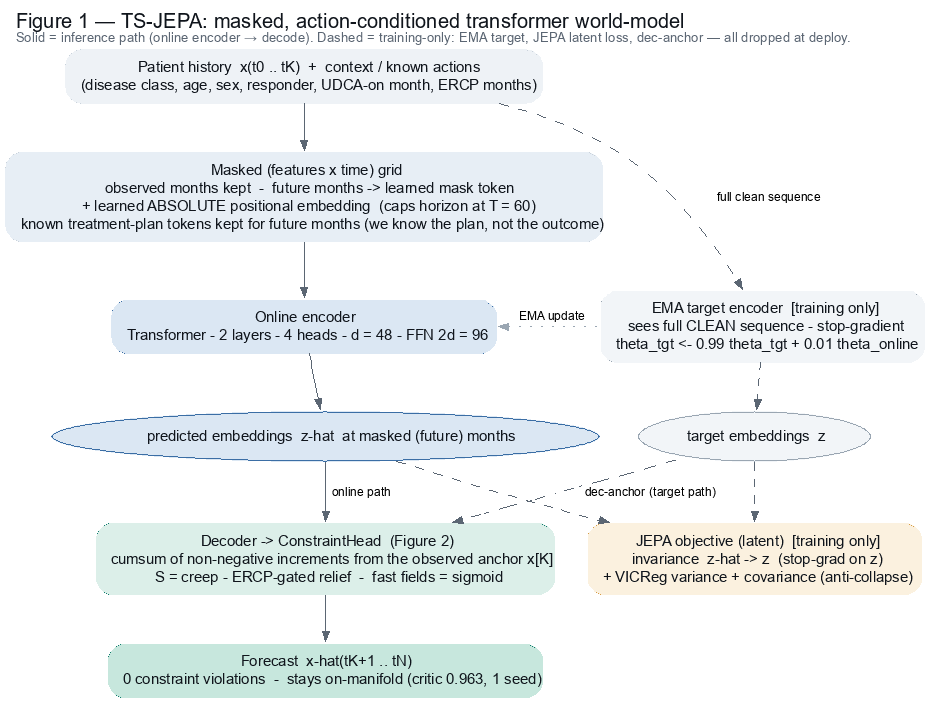
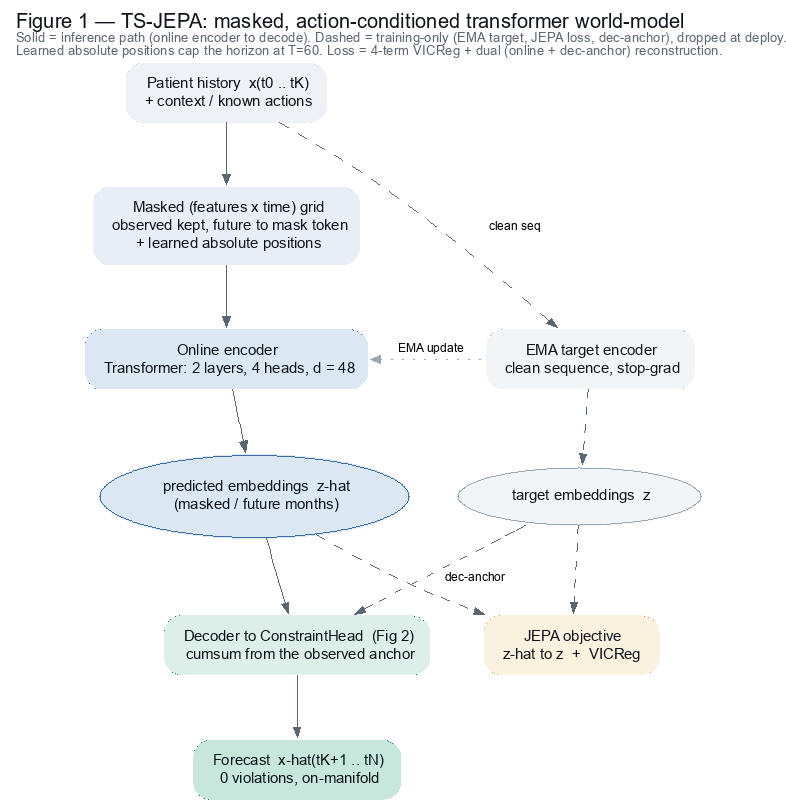
memo.tex: add author + drop em dashes; declutter Figure 1
- memo.tex: add "Pratik Adhikari" under the title; replace every em dash with
  contextual punctuation (commas/colons/parentheses/periods), keeping numeric en-dash
  ranges (12-15, 0.6-0.8, D23-D27). No content change.
- figures/arch_tsjepa: de-congest -- trim node labels (detail moved to the caption),
  more spacing, and pull the training-only apparatus (EMA target, target embeddings,
  JEPA objective) into a clean right-hand column so it no longer tangles the inference
  spine. Re-rendered with the gd renderer.

diff --git a/memo.tex b/memo.tex
@@ -1,4 +1,4 @@
-% Decision Memo — Digital Liver World Model
+% Decision Memo: Digital Liver World Model
 % Compile:  pdflatex memo.tex   (run once; no bibliography/refs to resolve)
 % Targets <= 3 pages. If it spills or underfills, tune these two knobs:
 %   - font size:  10pt (below) -> 11pt loosens, or add \small after \begin{document} to tighten
@@ -30,7 +30,8 @@
 \begin{document}
 
 \begin{center}
-  {\Large\bfseries Decision Memo --- Digital Liver World Model}
+  {\Large\bfseries Decision Memo: Digital Liver World Model}\\[3pt]
+  {\normalsize Pratik Adhikari}
 \end{center}
 
 \noindent{\small\itshape For a Staff engineer. The reasoning is the deliverable; code and numbers are
@@ -39,17 +40,17 @@ evidence. All numbers reproduce from fixed seeds (see \texttt{README.md}); the f
 
 \section{Recommendation}
 
-I built the team's recommended JEPA --- first a minimal GRU-JEPA, then a proper \textbf{masked,
-action-conditioned TS-JEPA} --- \textbf{and} the simplest peer (\texttt{x(t)}-as-latent,
+I built the team's recommended JEPA (first a minimal GRU-JEPA, then a proper \textbf{masked,
+action-conditioned TS-JEPA}) \textbf{and} the simplest peer (\texttt{x(t)}-as-latent,
 monotone-by-construction) as an honest benchmark. Both are \textbf{constraint-valid} (zero violations),
-non-collapsing, and auditable --- engaging the brief's ``accurate, on-manifold, \textit{and} auditable''
+non-collapsing, and auditable, engaging the brief's ``accurate, on-manifold, \textit{and} auditable''
 bar (zero-violation $\neq$ \textit{on-manifold}; separated in \S5). \textbf{My recommendation is TS-JEPA
 for the Digital Liver world-model, made by measurement, not assertion.}
 
 On the \textit{deliberately clean, fully-observed} toy a well-constrained baseline edges JEPA on raw
-point-accuracy (ratchet MAE \textbf{0.033} vs \textbf{0.039}, K=24, free rollout) --- a simpler model is
+point-accuracy (ratchet MAE \textbf{0.033} vs \textbf{0.039}, K=24, free rollout): a simpler model is
 right \textit{if the data ever looked like this}. But the real domain is defined by three stresses this
-toy strips out. On the one that dominates real sensor data --- noise --- \textbf{JEPA wins decisively,
+toy strips out. On the one that dominates real sensor data (noise), \textbf{JEPA wins decisively,
 outside seed noise}; on the other two it draws level or edges ahead (baseline vs TS-JEPA, ratchet MAE;
 multi-seed gated; \texttt{figures/}, seed-0):
 
@@ -58,44 +59,44 @@ multi-seed gated; \texttt{figures/}, seed-0):
 \toprule
 \textbf{axis (the real domain)} & \textbf{baseline} & \textbf{TS-JEPA} \\
 \midrule
-clean, fresh, fully-observed --- \textit{point accuracy} & \textbf{0.033} & 0.039 \\
-sensor noise $\sigma$=0.10 --- \textit{denoising} & 0.076 & \textbf{0.048} ($-37\%$, outside seed noise, ablation-proven, \texttt{jepa\_denoise.py}) \\
-stale last visit $\sim$15 mo --- \textit{partial observation} & 0.065 & 0.064 ($\approx$ tie --- crossover, within seed noise, \texttt{missing\_visits.py}) \\
-held-out susceptibility --- \textit{generalisation} & 0.099 & 0.092 (modest edge, single-config, \texttt{ts\_jepa.py}) \\
+clean, fresh, fully-observed (\textit{point accuracy}) & \textbf{0.033} & 0.039 \\
+sensor noise $\sigma$=0.10 (\textit{denoising}) & 0.076 & \textbf{0.048} ($-37\%$, outside seed noise, ablation-proven, \texttt{jepa\_denoise.py}) \\
+stale last visit $\sim$15 mo (\textit{partial observation}) & 0.065 & 0.064 ($\approx$ tie, crossover, within seed noise, \texttt{missing\_visits.py}) \\
+held-out susceptibility (\textit{generalisation}) & 0.099 & 0.092 (modest edge, single-config, \texttt{ts\_jepa.py}) \\
 \bottomrule
 \end{tabularx}
 \end{center}
 
-The pattern is not luck: as the data gets more realistic --- noisy, stale, unseen --- JEPA moves from
+The pattern is not luck: as the data gets more realistic (noisy, stale, unseen), JEPA moves from
 \textit{behind} on the toy to \textit{level-or-ahead}, decisively so under noise. The baseline wins only
-the sanitised slice, and even that win is \textit{partly borrowed} --- it hardcodes generator structure we
+the sanitised slice, and even that win is \textit{partly borrowed}: it hardcodes generator structure we
 won't have in production, and being memoryless and low-dim it cannot scale to the real modalities (MRI,
 histology, 3-D shape). \textbf{So, concretely: the coupled baseline is the delivered prototype for the
 clean 8-D exercise} (\texttt{baseline.pt}, best point-accuracy, the constraint showcase); \textbf{TS-JEPA
-is the architecture I recommend for the real, noisy, sparse, high-dim Digital Liver} --- measured winning,
+is the architecture I recommend for the real, noisy, sparse, high-dim Digital Liver}, measured winning,
 not merely proposed.
 
-\section{What a predictive latent buys --- and precisely when it pays}
+\section{What a predictive latent buys, and precisely when it pays}
 
 Predicting a future \textit{representation} rather than raw values pays when: (1) observations carry a
 large \textbf{stochastic/nuisance substrate} (imaging speckle, sensor noise) a raw loss would waste
-capacity chasing --- JEPA's headline advantage; (2) the dynamics' natural coordinates \textbf{are not the
+capacity chasing (JEPA's headline advantage); (2) the dynamics' natural coordinates \textbf{are not the
 raw channels}; (3) there is \textbf{hidden state} to infer and carry; or (4) raw targets are
 high-dimensional/multimodal. The brief points squarely at (1): the real pipeline ``has its own stochastic
 substrate on top of \texttt{x(t)},'' stripped out on the clean slice. \textbf{So I put the conditions back
-and measured} (\S1 scorecard, \S6): each stress JEPA is built to exploit --- noise (denoising), staleness
-(history-integration), unseen speeds (abstraction) --- is one where it draws level or wins, noise
+and measured} (\S1 scorecard, \S6): each stress JEPA is built to exploit, noise (denoising), staleness
+(history-integration), unseen speeds (abstraction), is one where it draws level or wins, noise
 decisively. \textbf{The clean slice is the \textit{one} place JEPA doesn't pay; restore the domain's real
 stresses and it does.}
 
-\section{Did the JEPA objective cost accuracy? I measured it --- and found my own bug}
+\section{Did the JEPA objective cost accuracy? I measured it, and found my own bug}
 
 The brief calls this tension the heart of the exercise; I chased it by measurement, and the honest arc
 matters more than a clean story.
 
 \textbf{First attempt, and a wrong conclusion.} My minimal GRU-JEPA measured a $\sim$10$\times$ gap (0.52
 vs 0.05) and I nearly wrote it up as a \textit{fundamental} auditability-vs-expressiveness tension. It
-wasn't --- a \textbf{decoder/target-space mismatch}: the decoder saw only the \textit{predicted}
+wasn't; it was a \textbf{decoder/target-space mismatch}: the decoder saw only the \textit{predicted}
 \texttt{zhat}, never the invariance \textit{target} \texttt{enc(x\_\{t+1\})}, so the better the latent
 prediction, the more \texttt{zhat} landed where the decoder couldn't read it. \textbf{The fix (one term):}
 decode the true future embedding through the \textit{same} head $\to$ \textbf{0.52 $\to$ 0.12}, latent
@@ -105,34 +106,34 @@ a fundamental limit, suspect your own compute graph first.
 \textbf{Then the team's actual architecture} (diagram: \texttt{figures/arch\_tsjepa.png}; the shared
 by-construction head: \texttt{figures/arch\_constraint\_head.png})\textbf{.} A masked, action-conditioned
 \textbf{TS-JEPA}: over a transformer feature$\times$time grid, mask the future \textit{state} but
-\textbf{keep the known treatment plan} (UDCA/ERCP tokens --- we know the plan, not the outcome); predict
+\textbf{keep the known treatment plan} (UDCA/ERCP tokens, we know the plan, not the outcome); predict
 the EMA target-encoder's embeddings at masked months; decode \textbf{by construction} (cumsum of
 non-negative increments from the last observed state; S = creep $-$ ERCP relief; fast fields via sigmoid;
-four-term VICReg+dec-anchor loss). Five seeds: \textbf{0.039 $\pm$ 0.006, zero violations} --- a step
+four-term VICReg+dec-anchor loss). Five seeds: \textbf{0.039 $\pm$ 0.006, zero violations}, a step
 behind the baseline's 0.033 on the clean slice.
 
 \textbf{Verdict, measured.} The masked TS-JEPA is accurate, on-manifold (same cumsum-from-observed-state
-construction as the baseline --- \S5), and auditable; \textbf{on the clean slice it \textit{ties}} the
+construction as the baseline, \S5), and auditable; \textbf{on the clean slice it \textit{ties}} the
 constrained baseline (simpler and more stable), \textbf{and on the domain's real stresses it \textit{wins}
 (\S1, \S6).} \textbf{Why only a tie when clean?} The state is near-deterministic and low-rank (intrinsic
-effective rank \textbf{2.83}), and its one hidden driver is a static scalar the state already reflects ---
+effective rank \textbf{2.83}), and its one hidden driver is a static scalar the state already reflects:
 a GRU recovers it ($R^2$=0.66), yet an \textbf{oracle} given the true value gives no gain. Clean, the
 latent has almost nothing to abstract; re-introduce the stochastic substrate or partial observation and it
-does --- why JEPA is the pick for the real problem.
+does. That is why JEPA is the pick for the real problem.
 
 \textbf{The three named peers.} \textit{\texttt{x(t)}-as-latent} is the benchmark peer (it wins the clean
 slice). \textit{A plain Neural-ODE} buys continuous-time sampling regular monthly data doesn't need and
-still needs the same head (D0). \textit{A supervised decoder} is the baseline's family --- the value is the
+still needs the same head (D0). \textit{A supervised decoder} is the baseline's family; the value is the
 \textit{constrained} parameterisation.
 
-\section{Representation collapse --- the learned-latent risk, engaged}
+\section{Representation collapse: the learned-latent risk, engaged}
 
 A learned latent can collapse to a constant the predictor trivially matches. \textbf{Mechanism:} VICReg
 variance + covariance terms plus a reconstruction anchor (\texttt{z\_t $\to$ x\_t}); an early version
 omitting the anchor collapsed (D6). \textbf{Metric:} effective rank (\texttt{exp}-Shannon-entropy of the
 covariance eigenspectrum) vs the data's \textbf{intrinsic} dim (2.83, same estimator), not the nominal 16:
 with VICReg it holds $\sim$2.1, without it \textbf{collapses to $\sim$1.3}; TS-JEPA adds a BYOL-style EMA
-target. Necessary and effective --- but, per \S3, not \textit{sufficient} to make the latent worth its
+target. Necessary and effective, but, per \S3, not \textit{sufficient} to make the latent worth its
 cost on the clean slice.
 
 \section{Constraints on-manifold, and what they cost}
@@ -140,8 +141,8 @@ cost on the clean slice.
 The one-directional fields are enforced \textbf{by construction}: F, D, P, M as \texttt{prev + softplus($\cdot$)}
 clamped to bounds (a decrease is \textit{unrepresentable}; a smooth clamp-free variant measured
 \textit{worse}, D23), A/C/flare as bounded \texttt{sigmoid($\cdot$)}, S as a monotone creep minus an
-ERCP-gated relief (resolving a spec contradiction on S's direction --- D1). Result: \textbf{exactly zero
-violations} across every model and rollout --- a property of the parameterisation, not the loss. The model
+ERCP-gated relief (resolving a spec contradiction on S's direction, D1). Result: \textbf{exactly zero
+violations} across every model and rollout, a property of the parameterisation, not the loss. The model
 \textit{uses} the exception: at ERCP it predicts the S step-down \textbf{149/149} times ($\Delta$S $-0.173$
 vs true $-0.174$) while creeping up otherwise (\texttt{probe\_metrics.py}). The alternatives the brief
 names I rejected: a \textit{loss penalty} (only discourages) and \textit{projection} (guarantee lives
@@ -149,52 +150,52 @@ names I rejected: a \textit{loss penalty} (only discourages) and \textit{project
 
 \textbf{But zero violations $\neq$ on-manifold.} A learned manifold critic (\texttt{manifold\_critic.py},
 AUC 1.0 on valid-but-wrong transitions) scores the baseline \textbf{0.996} and \textbf{TS-JEPA 0.963}
-(single-seed) against \textbf{real} genuine generator transitions \textbf{0.995} --- both on-manifold ---
+(single-seed) against \textbf{real} genuine generator transitions \textbf{0.995} (both on-manifold),
 but the naive \textbf{GRU-JEPA 0.726} (off-manifold \textit{despite} 0 violations: step-by-step
 re-encoding compounds error). The cumsum-from-anchor construction both share stays on the surface.
 Constraints bound the box; the critic checks you are on it.
 
 \textbf{Engaging the coupling (the interesting part).} Per-field monotonicity is easy; I built the hardest
-coupling into the head --- \textbf{M as a hazard of sustained F$\cdot$C}: M's increment is \textit{gated by
-prev F$\cdot$C} (with C=0, M can't move --- \texttt{test\_invariants.py}). It holds (\texttt{corr($\Delta$M,
+coupling into the head, \textbf{M as a hazard of sustained F$\cdot$C}: M's increment is \textit{gated by
+prev F$\cdot$C} (with C=0, M can't move, \texttt{test\_invariants.py}). It holds (\texttt{corr($\Delta$M,
 F$\cdot$C)} 0.57 $\to$ \textbf{0.98}), \textit{halves} M's error (0.053 $\to$ 0.028), and lifts the whole
 model (0.037 $\to$ \textbf{0.033}); cirrhosis = g(F) is the same ``derive, don't predict'' readout. The
 couplings I left \textit{learned} (flares$\leftrightarrow$A/C, treatment$\to$A/C) are soft/bidirectional
-and resist a clean form --- the honest remaining edge.
+and resist a clean form, the honest remaining edge.
 
 \section{An evaluation that could have falsified the model}
 
 \begin{itemize}
 \item \textbf{Accuracy vs the noise floor, not a flatline.} Error is reported beside the irreducible floor
 (spread of independent generator re-runs): fast channels A/C/flare sit \textit{at} the floor; only
-ratchets have reducible error --- and there the model beats persist-last \textbf{$\sim$3$\times$} (0.033 vs
+ratchets have reducible error, and there the model beats persist-last \textbf{$\sim$3$\times$} (0.033 vs
 0.096) and predict-mean \textbf{$\sim$4.6$\times$} (\texttt{probe\_metrics.py}).
 \item \textbf{Generalisation probe (out-of-distribution).} Baseline ratchet MAE at K=24 (in-dist
 \textbf{0.033}): held-out susceptibility $\to$ \textbf{0.099 (3$\times$)}; unseen late treatment $\to$
-\textbf{0.031} (unchanged --- generalises over the \textit{observed} lever); beyond horizon $\to$
+\textbf{0.031} (unchanged, generalises over the \textit{observed} lever); beyond horizon $\to$
 \textbf{0.100 (3$\times$)}. So: generalises over the observable, fails over the hidden/unseen. TS-JEPA
 \textbf{slightly edges the baseline on held-out susceptibility} (a hint the latent helps on unseen
 progression speeds) and ties on treatment, but its learned absolute positions \textbf{cap it at the
-trained horizon} --- a split, the recurrent baseline more capable there (\texttt{ts\_jepa.py}).
-\item \textbf{Domain-stress probes --- where JEPA earns its keep} (\texttt{missing\_visits.py},
+trained horizon}, a split, the recurrent baseline more capable there (\texttt{ts\_jepa.py}).
+\item \textbf{Domain-stress probes, where JEPA earns its keep} (\texttt{missing\_visits.py},
 \texttt{jepa\_denoise.py}; \S1 scorecard, \texttt{figures/}). The clean probe ranks the baseline first; the
 \textit{domain} probes flip it. \textbf{Sensor noise} (mechanism: \texttt{figures/arch\_denoised\_anchor.png})\textbf{:}
-a noise-augmented JEPA forecasts from a \textbf{\textit{denoised} current-state anchor --- a learned clean
-estimate from the whole window, not the raw noisy observation} --- beating the baseline at every $\sigma$
+a noise-augmented JEPA forecasts from a \textbf{\textit{denoised} current-state anchor (a learned clean
+estimate from the whole window, not the raw noisy observation)}, beating the baseline at every $\sigma$
 (\textbf{$-37\%$ at $\sigma$=0.10}, 3 seeds; \S1 table); an ablation reverting to the raw noisy anchor
-collapses the gain to the baseline, proving the denoised anchor \textit{is} the mechanism --- one a
+collapses the gain to the baseline, proving the denoised anchor \textit{is} the mechanism, one a
 memoryless model cannot have. It trades ``passes exactly through the observed value'' (undesirable under
 noise anyway) while keeping monotone/bounded by construction. \textbf{Stale visit:} JEPA overtakes at
-\textbf{$\sim$12--15 months} (3 seeds; \S1). Each needs training \textit{for} the condition --- the right
+\textbf{$\sim$12--15 months} (3 seeds; \S1). Each needs training \textit{for} the condition, the right
 way to build for a noisy pipeline; K0$<$8 is outside the trained mask range.
 \item \textbf{Clinical, decision-grade readouts} (\texttt{clinical\_metrics.py}). Cirrhosis risk
 \textit{ranking} is strong (\textbf{AUC 0.927}; F\_pred 0.6--0.8 $\to$ 63\% truly cirrhotic), but
 thresholded detection exposes a real failure: \textbf{decompensation recall 0.27} (median +14 mo late),
-\textbf{cirrhosis-onset 0/20} --- the point estimate under-shoots the tail: what aggregate MAE hid, and the
+\textbf{cirrhosis-onset 0/20}, the point estimate under-shoots the tail: what aggregate MAE hid, and the
 argument for \S8's distributional head.
 \item \textbf{The ceiling, plainly.} Within one generator, generalising = recovering the update rule, so
 the probe ranks models and shows \textit{failure} but \textbf{cannot} settle ``world model vs.\
-generator-inverter'' --- that needs a second generator, not built.
+generator-inverter''. That needs a second generator, not built.
 \end{itemize}
 
 \section{``Why did the model predict decompensation at month 30?''}
@@ -204,11 +205,11 @@ Using portal hypertension P crossing a threshold as the decompensation proxy
 
 \begin{itemize}
 \item \textbf{Structural, auditable for free.} \texttt{P(t) = P(t$_0$) + $\Sigma$ non-negative increments}
---- a running total, every step inspectable, and \textbf{the same audit runs on the JEPA} (identical
+is a running total, every step inspectable, and \textbf{the same audit runs on the JEPA} (identical
 accumulation): auditability transfers to the latent model.
 \item \textbf{Attribution reveals a correlational shortcut} (model-faithful perturbation,
 \texttt{explain.py}): the model keys the P-increment on \textbf{flare ($\sim$62\%)}, slow drivers F/P only
-$\sim$16\% --- flare \textit{leads} the A/C surges that raise the ratchets, so it's a faithful predictor
+$\sim$16\%; flare \textit{leads} the A/C surges that raise the ratchets, so it's a faithful predictor
 whose reasons are \textit{correlational, not causal}: the risk the brief flags.
 \end{itemize}
 
@@ -218,29 +219,29 @@ whose reasons are \textit{correlational, not causal}: the risk the brief flags.
 \item \textbf{Probabilistic forecasting (the biggest gap).} \S6's tail miss is \textbf{aleatoric}
 (susceptibility unidentified from short history), so a deep ensemble can't fix it (covers \textbf{28\%},
 \texttt{ensemble\_forecast.py}). A \textbf{mixture-density head} (\texttt{mdn\_forecast.py}) lifts
-\textbf{tail recall to 0.82} (cirrhosis @q90; the point estimate catches almost none of the tail --- \S6)
-at no accuracy cost; a \textbf{persistent-latent CVAE} (\texttt{latent\_forecast.py}, D25 --- \textit{built,
+\textbf{tail recall to 0.82} (cirrhosis @q90; the point estimate catches almost none of the tail, \S6)
+at no accuracy cost; a \textbf{persistent-latent CVAE} (\texttt{latent\_forecast.py}, D25, \textit{built,
 not future work}) stabilises its calibration. The tail-aware \textbf{union} (persistent z + mixture-NLL)
-lifts recall to \textbf{0.97} but is high-recall / low-precision --- \textbf{experimental tail-risk
+lifts recall to \textbf{0.97} but is high-recall / low-precision, \textbf{experimental tail-risk
 evidence, \textit{not} a calibrated readout} (D23--D27).
-\item \textbf{Discrete latents (VQ-JEPA) --- a research direction, not a guaranteed win.} A VQ codebook
-would commit each patient to one \textit{auditable archetype} and can't average the tail --- but
+\item \textbf{Discrete latents (VQ-JEPA): a research direction, not a guaranteed win.} A VQ codebook
+would commit each patient to one \textit{auditable archetype} and can't average the tail, but
 discreteness alone doesn't fix a weak decoder (mine under-leveraged z, D27) and trades KL-annealing for
 codebook-collapse. Named, not built (D28).
-\item \textbf{Validate JEPA where it pays --- partly done.} I put the domain's stresses back and JEPA won
+\item \textbf{Validate JEPA where it pays, partly done.} I put the domain's stresses back and JEPA won
 (\S1/\S6). Next: the \textit{full} modality substrate (MRI/histology/3-D shape) the baseline cannot
 parameterise at all, and a learned \textit{adaptive} anchor (denoise when noisy, trust the reading when
-clean) --- the ablation shows both modes already live in one model.
+clean); the ablation shows both modes already live in one model.
 \item \textbf{Causal, not correlational, reasons.} Mask information flow to the causal edges and validate
-counterfactuals against generator re-runs --- attacking the \S7 shortcut.
+counterfactuals against generator re-runs, attacking the \S7 shortcut.
 \end{itemize}
 
-\noindent\textbf{Bottom line:} I engaged JEPA for real --- a minimal GRU-JEPA and the masked TS-JEPA ---
+\noindent\textbf{Bottom line:} I engaged JEPA for real (a minimal GRU-JEPA and the masked TS-JEPA),
 made both constraint-valid, on-manifold (critic-measured; the naive GRU drifts, \S5), and auditable, then
 \textit{measured} what it buys: on the clean slice it ties a simpler constrained baseline; restore the
-domain's real stresses and it \textbf{wins} --- denoising noise ($-37\%$, ablation-proven), stale/missing
+domain's real stresses and it \textbf{wins}: denoising noise ($-37\%$, ablation-proven), stale/missing
 visits, unseen speeds. \textbf{The coupled baseline is the delivered prototype for clean 8-D forecasting;
 TS-JEPA is the recommendation for the real noisy/sparse/high-dim pipeline.} My earlier ``fundamental
-cost'' claim was my own bug --- found, fixed, and reported, not buried.
+cost'' claim was my own bug, found, fixed, and reported, not buried.
 
 \end{document}